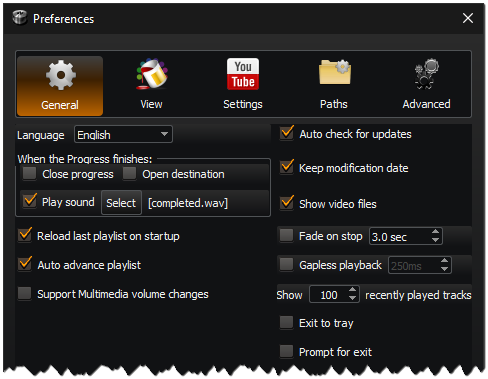
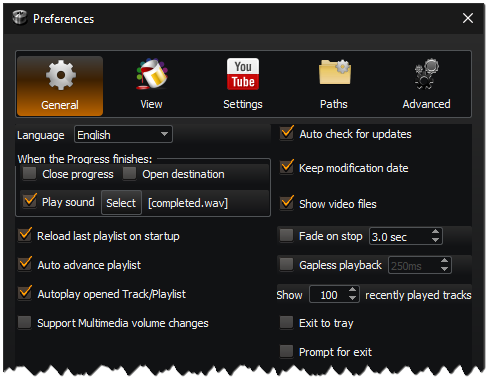
User Guide

Changed region(s): [[0.0307, 0.7546, 0.4303, 0.8127], [0.0307, 0.8127, 0.4303, 0.8707]]

diff --git a/docs/index.md b/docs/index.md
@@ -493,6 +493,8 @@ There are five pages in the Preferences dialog:
   When the program starts, reload the tracks that where loaded when it was last closed.
 - **Auto advance playlist**  
   When a track finishes playing in the playlist, the next one starts playing automatically.  
+- **Autoplay opened Track/Playlist**  
+  Automatically starts playback if a file or a playlist is opened with KataLib, and the Playlist is empty.
 - **Support Multimedia volume changes**  
   Enables the use of multimedia keys to control the playback volume of the player. 
 - **Auto check for updates**  
